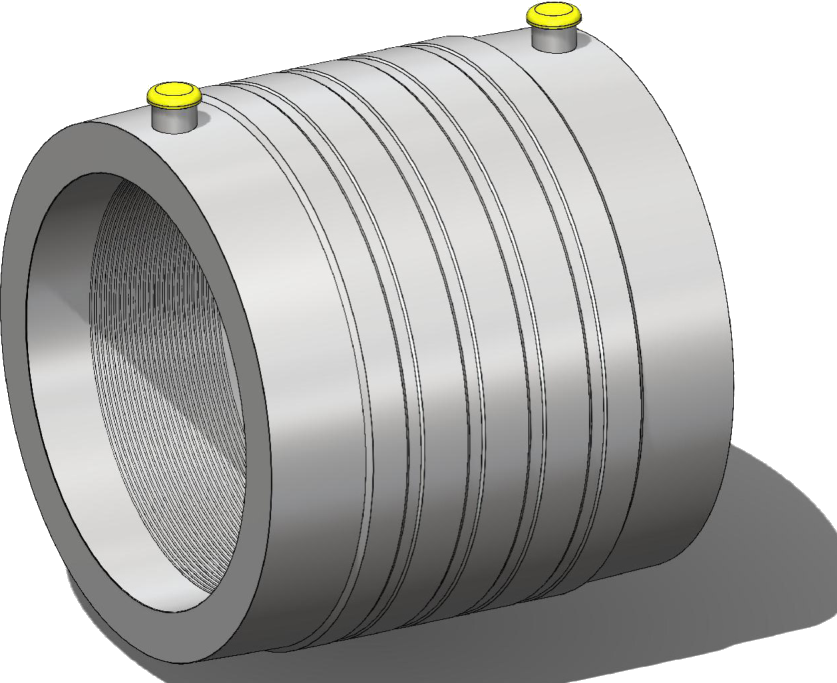
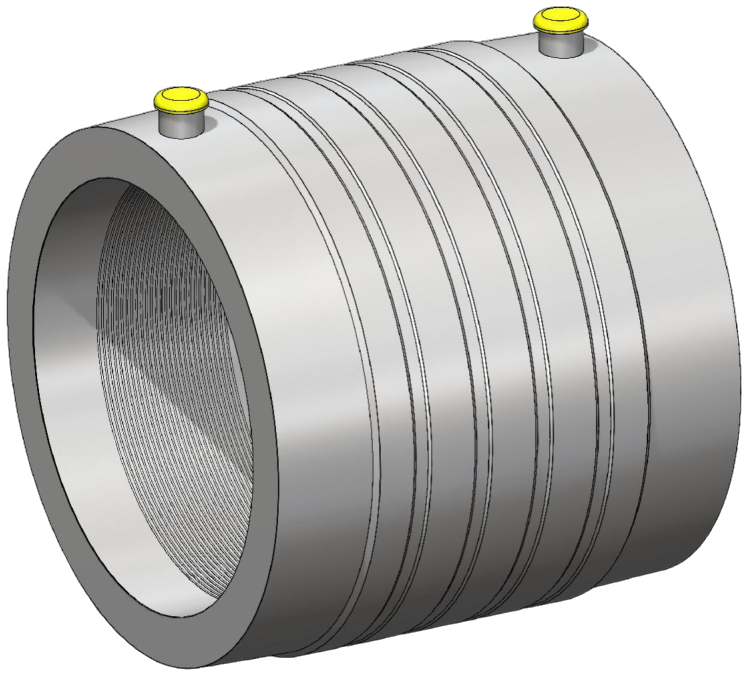
fix(assets): remove floor shadows and ground plane remnants from catalog products

diff --git a/index.html b/index.html
@@ -142,7 +142,7 @@
                   </span>
                 </div>
                 <div class="hero-matrix-card__visual">
-                  <img src="assets/images/cat_pert_pipe.png" alt="Трубы PE-RT тип II неизолированные" loading="lazy">
+                  <img src="assets/images/cat_pert_pipe.png?v=2" alt="Трубы PE-RT тип II неизолированные" loading="lazy">
                 </div>
                 <div class="hero-matrix-card__info">
                   <div class="hero-matrix-card__title">Трубы PE-RT тип II</div>
@@ -160,7 +160,7 @@
                   </span>
                 </div>
                 <div class="hero-matrix-card__visual">
-                  <img src="assets/images/cat_ppu_pipe.png" alt="Трубы PE-RT в ППУ изоляции" loading="lazy">
+                  <img src="assets/images/cat_ppu_pipe.png?v=2" alt="Трубы PE-RT в ППУ изоляции" loading="lazy">
                 </div>
                 <div class="hero-matrix-card__info">
                   <div class="hero-matrix-card__title">Трубы в ППУ изоляции</div>
@@ -178,7 +178,7 @@
                   </span>
                 </div>
                 <div class="hero-matrix-card__visual">
-                  <img src="assets/images/cat_fitting_electro.png" alt="Электросварные фитинги PE-RT" loading="lazy">
+                  <img src="assets/images/cat_fitting_electro.png?v=2" alt="Электросварные фитинги PE-RT" loading="lazy">
                 </div>
                 <div class="hero-matrix-card__info">
                   <div class="hero-matrix-card__title">Электросварные фитинги</div>
@@ -196,7 +196,7 @@
                   </span>
                 </div>
                 <div class="hero-matrix-card__visual">
-                  <img src="assets/images/cat_fitting_spigot.png" alt="Литые фитинги спигот PE-RT" loading="lazy">
+                  <img src="assets/images/cat_fitting_spigot.png?v=2" alt="Литые фитинги спигот PE-RT" loading="lazy">
                 </div>
                 <div class="hero-matrix-card__info">
                   <div class="hero-matrix-card__title">Литые фитинги (спигот)</div>
